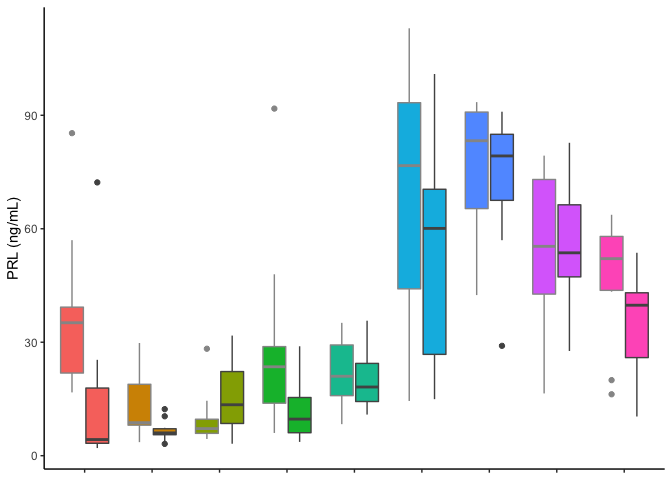
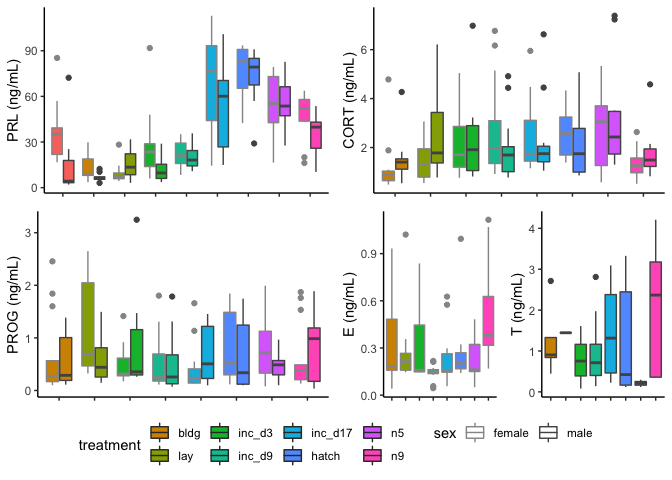
all four hormones

diff --git a/analysis/07_hormones.md b/analysis/07_hormones.md
@@ -199,32 +199,24 @@
                hormone %in% c(myhormone))  %>% 
       ggplot(aes(x = treatment, y = plasma_conc, fill = treatment, color = sex)) +
         geom_boxplot() + 
-        theme(axis.text.x = element_blank(),
+        theme(axis.text.x =  element_blank(),
               legend.position = "none") +
         scale_fill_manual(values = mycolors) +
         scale_color_manual(values = sexcolors) +
         labs(y = myylab, x = NULL) 
     }
 
-    hormonecharplot("prolactin", "PRL (ng/mL)") 
+    a <- hormonecharplot("prolactin", "PRL (ng/mL)")
+    b <- hormonecharplot("cort", "CORT (ng/mL)")
+    c <- hormonecharplot("progesterone", "PROG (ng/mL)") 
+    d1 <- hormonecharplot("estradiol", "E (ng/mL)")
+    d2 <- hormonecharplot("testosterone", "T (ng/mL)")
+    d <- plot_grid(d1,d2, nrow = 1)
+    abcd <- plot_grid(a, b ,c, d)
+    mylegend <- get_legend(c + theme(legend.position = "bottom"))
+    plot_grid(abcd, mylegend, nrow = 2, rel_heights = c(0.85,0.15))
 
 ![](../figures/hormones/characterization-1.png)
-
-    a <- hormonecharplot("estradiol", "E (ng/mL)")
-    b <- hormonecharplot("testosterone", "T (ng/mL)")
-
-    c <- hormonecharplot("cort", "CORT (ng/mL)")
-    d <- hormonecharplot("progesterone", "PROG (ng/mL)")
-
-    e <- hormonecharplot("prolactin", "PRL (ng/mL)") + theme(legend.position = "right", legend.direction = "horizontal")
-
-    cd <- plot_grid(d,c, nrow = 2)
-    ab <- plot_grid(a,b, nrow = 2)
-
-    abcd <- plot_grid(cd,ab, rel_widths = c(0.6,0.4))
-    plot_grid(e,abcd, ncol = 1)
-
-![](../figures/hormones/characterization-2.png)
 
     aovSexTretment <- function(mydata, whichormone){
       aov2 <- aov(data = mydata, plasma_conc ~ treatment + sex)
